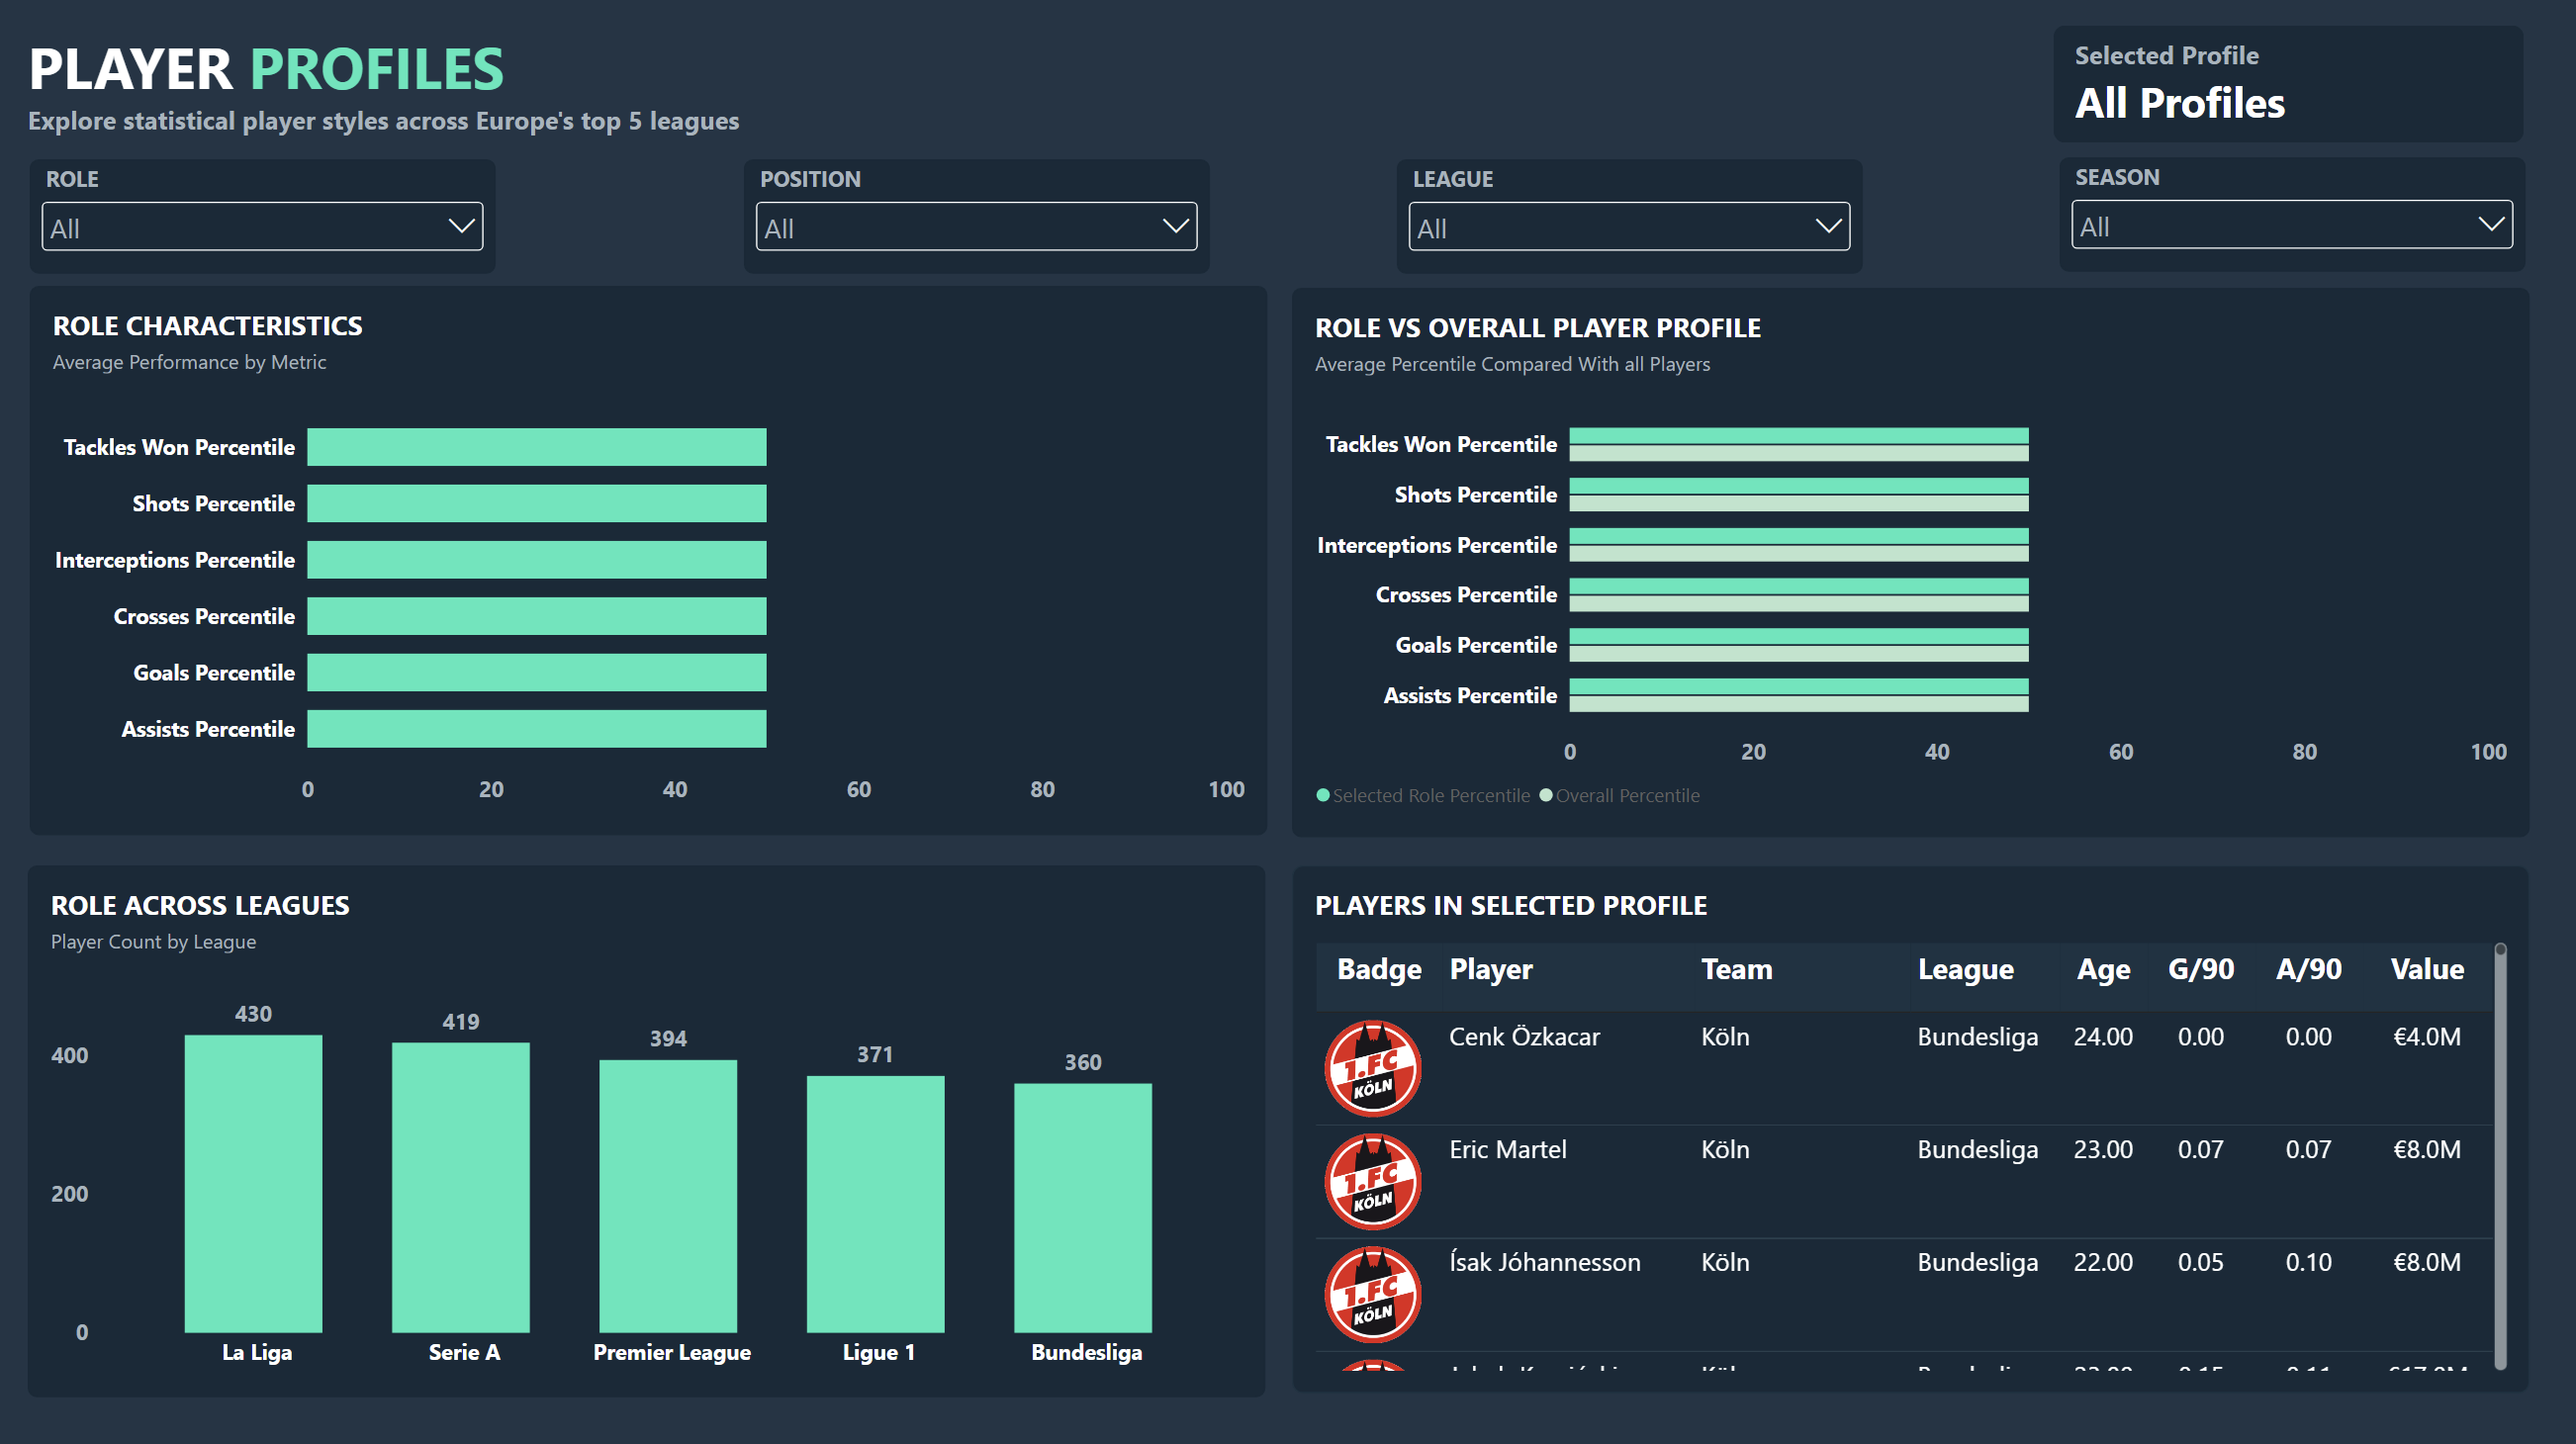
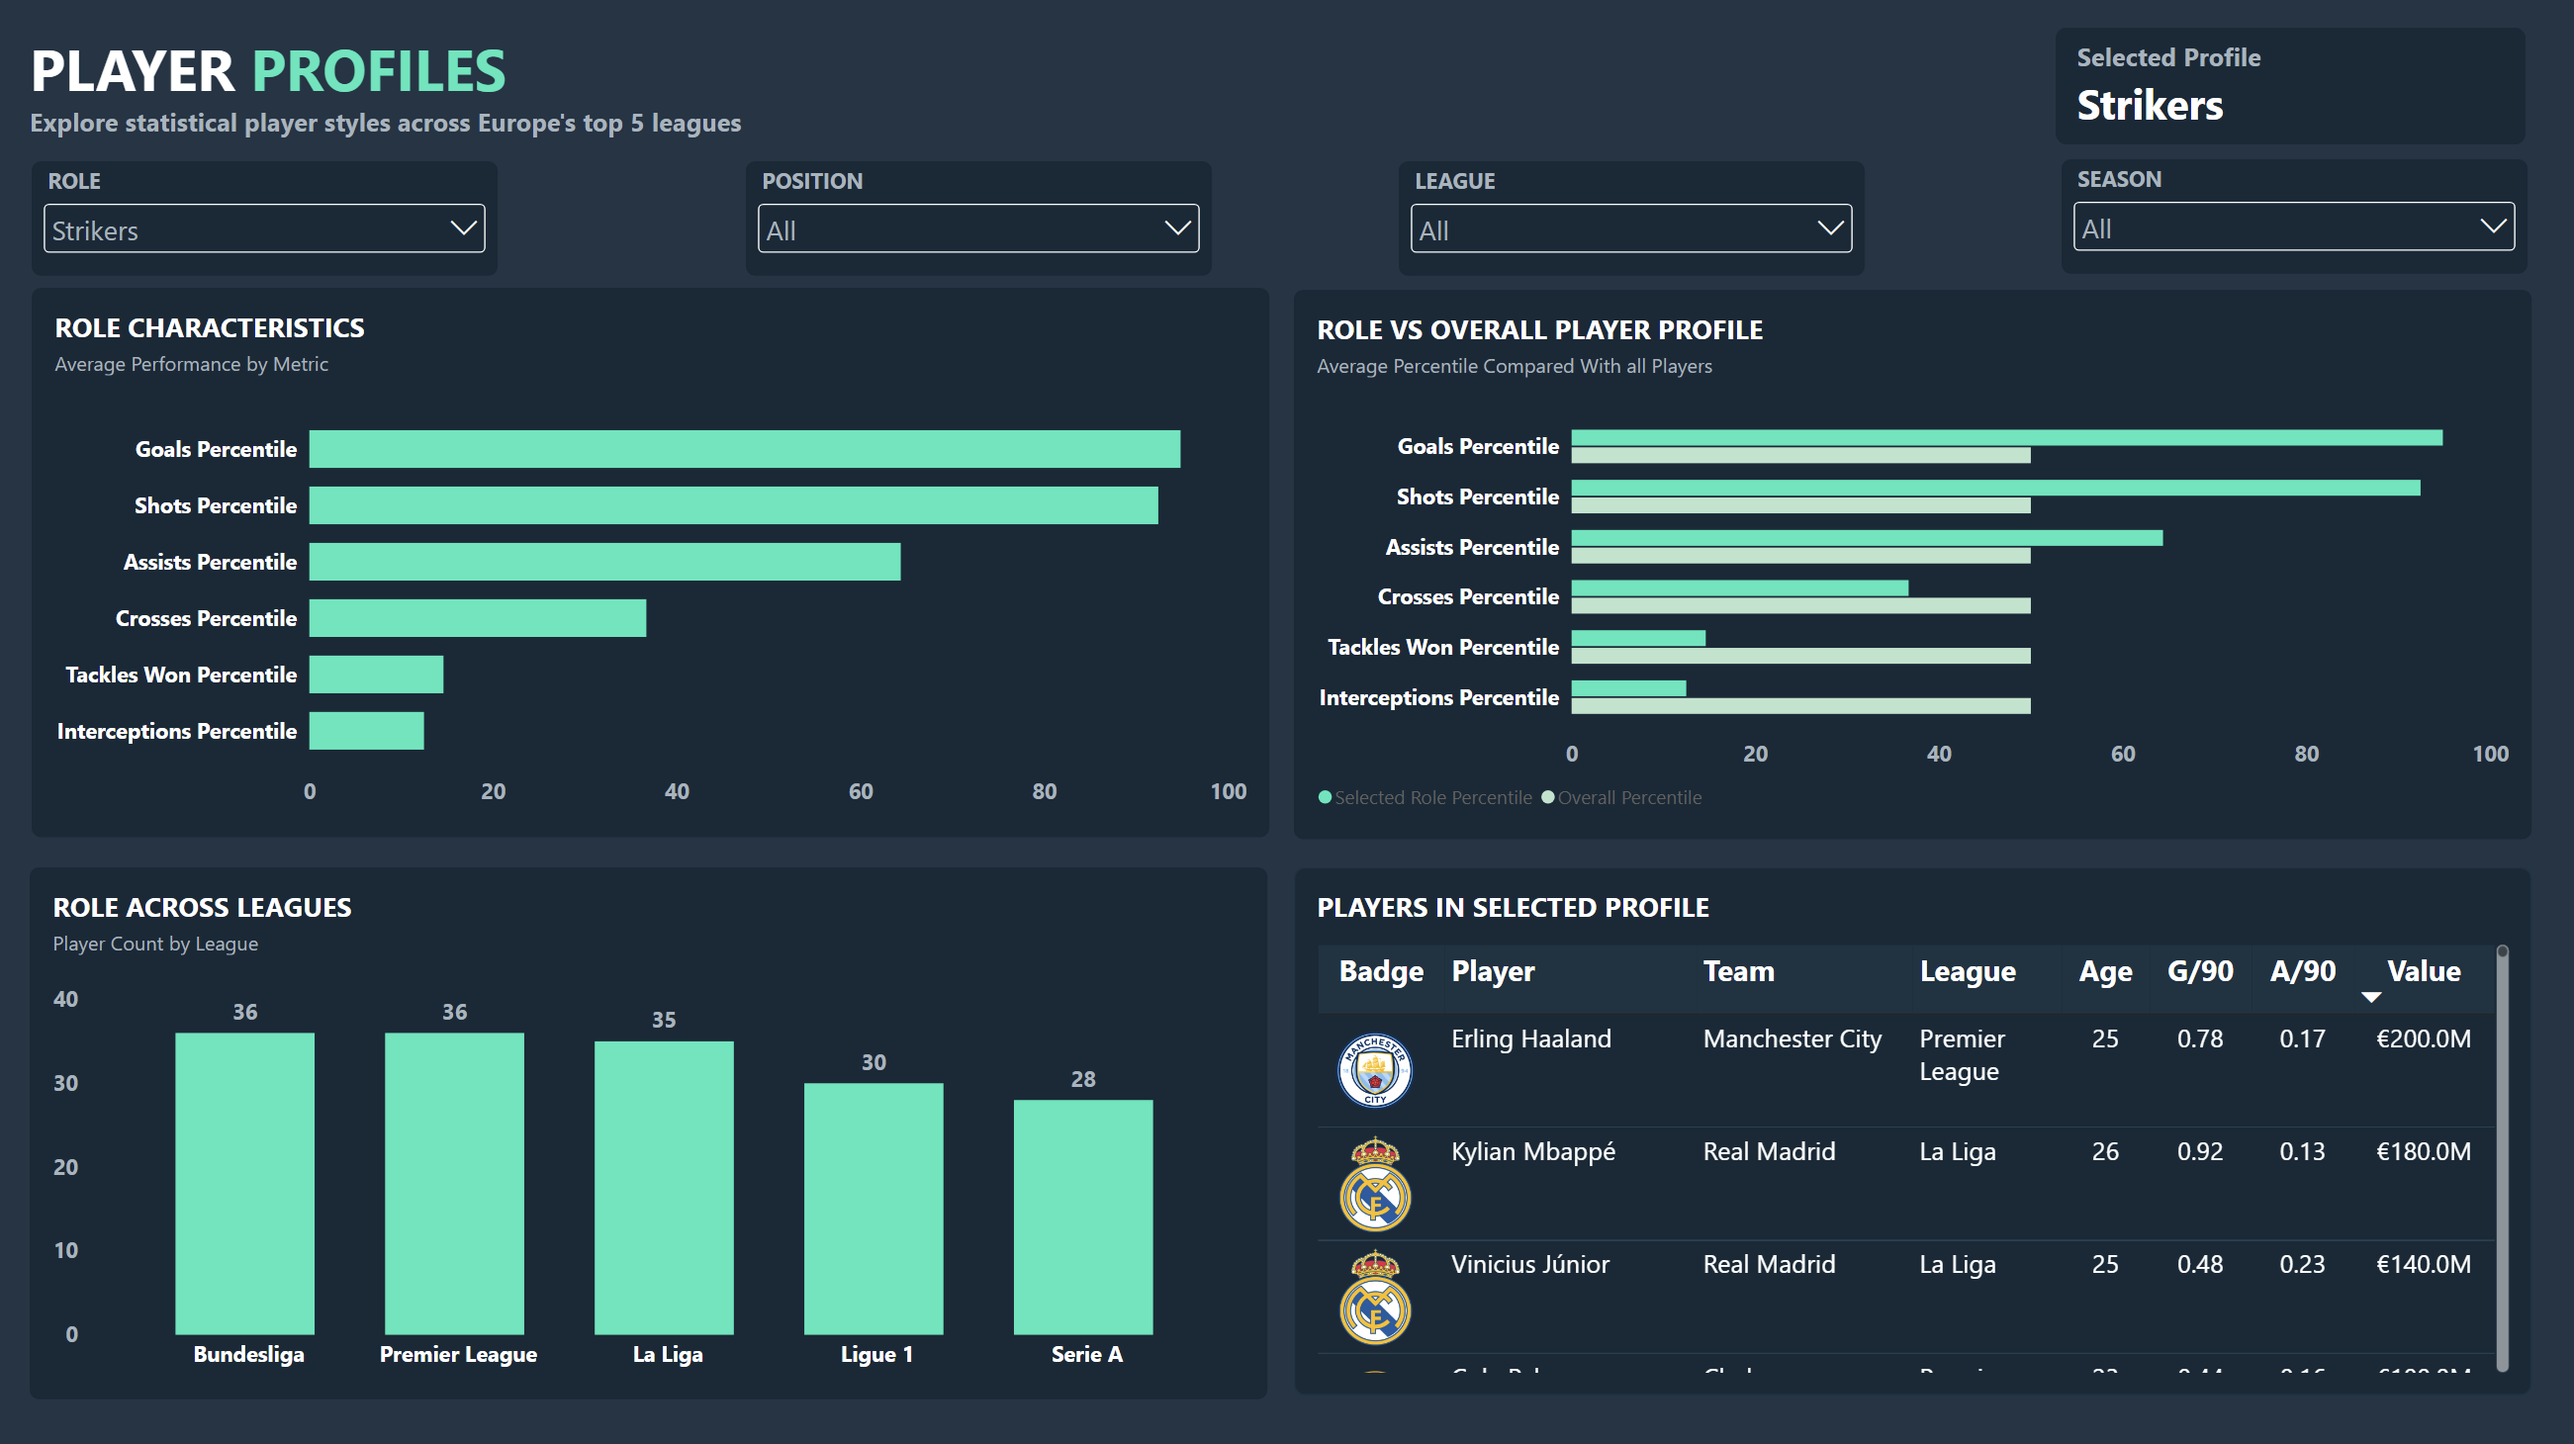
Update dashboard images

diff --git a/README.md b/README.md
@@ -26,7 +26,7 @@ The final Power BI dashboard contains four pages:
 3. Value Shortlist
 ![Page 3](images/Value_Shortlist.png)
 4. Similar Player Finder
-![Page 4](images/Similar_Players.png)
+![Page 4](images/Similar_Player_Finder.png)
 
 ## Key Results
 
